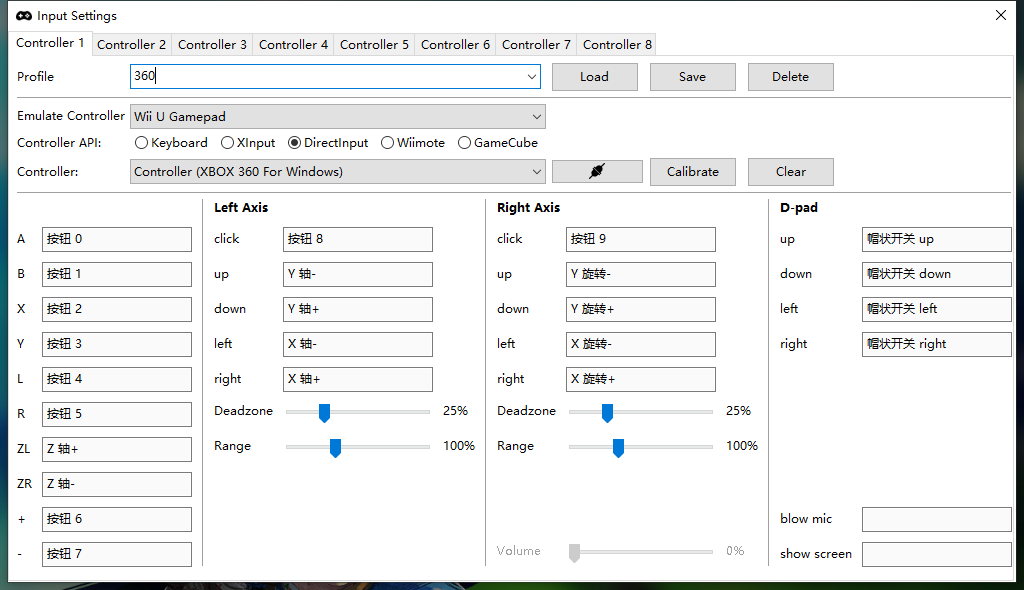
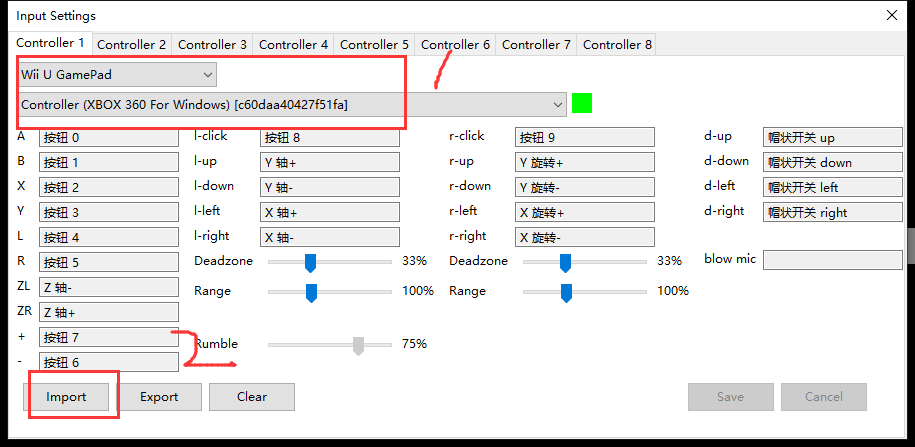
UPDATE

Changed region(s): [[0.0, 0.0, 1.0, 1.0]]

diff --git a/10.游戏/02.破解游戏/01.塞尔达传说 旷野之息/01.塞尔达之安装配置.md b/10.游戏/02.破解游戏/01.塞尔达传说 旷野之息/01.塞尔达之安装配置.md
@@ -7,19 +7,14 @@
 
 # 下载安装
 
-> 1、下载
-
-- 本体软件
+> 下载游戏本体
 
 [![](https://img.shields.io/badge/百度云-塞尔达-green.svg "百度云 塞尔达")](https://pan.baidu.com/s/1EVhtlINpqMxgfwC_Hr8XJQ)
 
-- 手机控制平衡感软件
+> 手机控制平衡感软件
 
 [![](https://img.shields.io/badge/百度云-GyroV.13_android_ios-green.svg "百度云 GyroV.13_android_ios")](https://pan.baidu.com/s/1tSsLZsqV-jZuDaWtiXXvCw)
 
-- cemu模拟器（使用这个代替原来的）
-
-[![](https://img.shields.io/badge/百度云-cemu模拟器-green.svg "百度云 cemu模拟器")](https://pan.baidu.com/s/1P97PP-4zXasJbQ489hrNDQ)
 
 # 配置
 
@@ -33,8 +28,9 @@
 
 ![](image/1-3.png)
 
-![](image/1-4.png)
+[![](https://img.shields.io/badge/百度云-360手柄按键-green.svg "百度云 360手柄按键")](https://pan.baidu.com/s/1B5SSnEgTPeTWBtGNHF4h3w)
 
+![](image/1-4.png)
 
 # 测试
 
